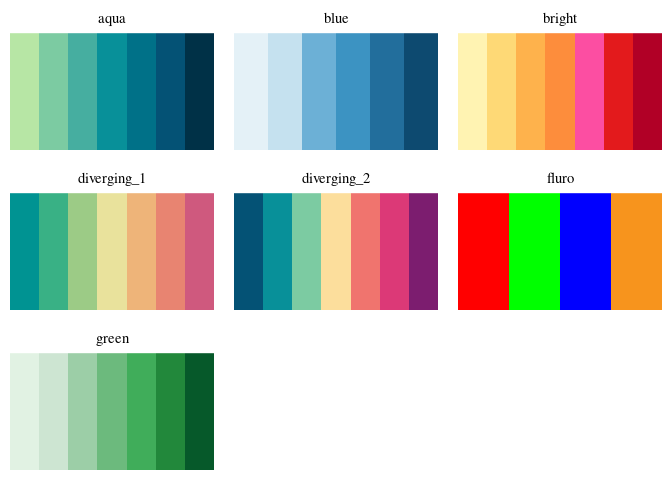
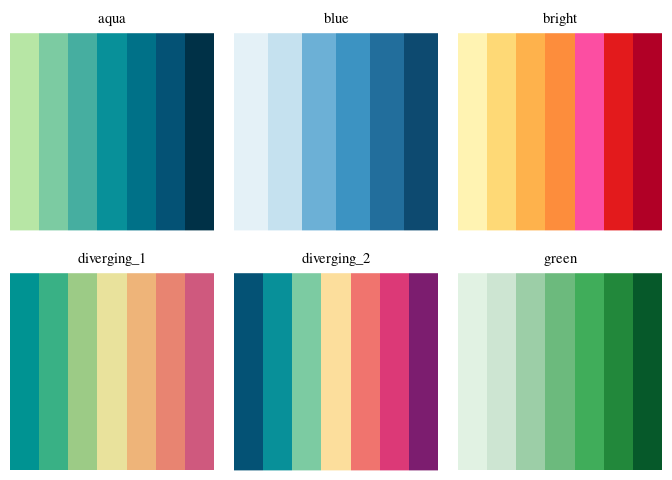
updated README to include more use case examples

diff --git a/README.md b/README.md
@@ -40,7 +40,7 @@ library(devtools)
 # Loading required package: usethis
 
 devtools::install_github("jcunha2023/icampcolors")
-# Skipping install of 'icampcolors' from a github remote, the SHA1 (abdcf508) has not changed since last install.
+# Skipping install of 'icampcolors' from a github remote, the SHA1 (b0980f7b) has not changed since last install.
 #   Use `force = TRUE` to force installation
 ```
 
@@ -101,4 +101,28 @@ icamp_palettes_sequential[c("blue", "bright")]
 To get palette names use names():
 
     # [1] "blue"        "aqua"        "green"       "bright"      "diverging_1"
-    # [6] "diverging_2" "fluro"
+    # [6] "diverging_2"
+
+## Example Use Cases
+
+    # 
+    # Attaching package: 'dplyr'
+    # The following objects are masked from 'package:stats':
+    # 
+    #     filter, lag
+    # The following objects are masked from 'package:base':
+    # 
+    #     intersect, setdiff, setequal, union
+
+Using the Iris data set, you can display data points in iCaMP Blue:
+
+``` r
+
+setosa_data <- subset(iris, Species == "setosa")
+
+ggplot(setosa_data, aes(Sepal.Length, Petal.Width))+
+  geom_point(aes(color = Species))+
+  scale_color_palette_d(icamp_palettes_discrete$icamp_blue)
+```
+
+<img src="README_files/figures/unnamed-chunk-9-1.png" width="100%" />
